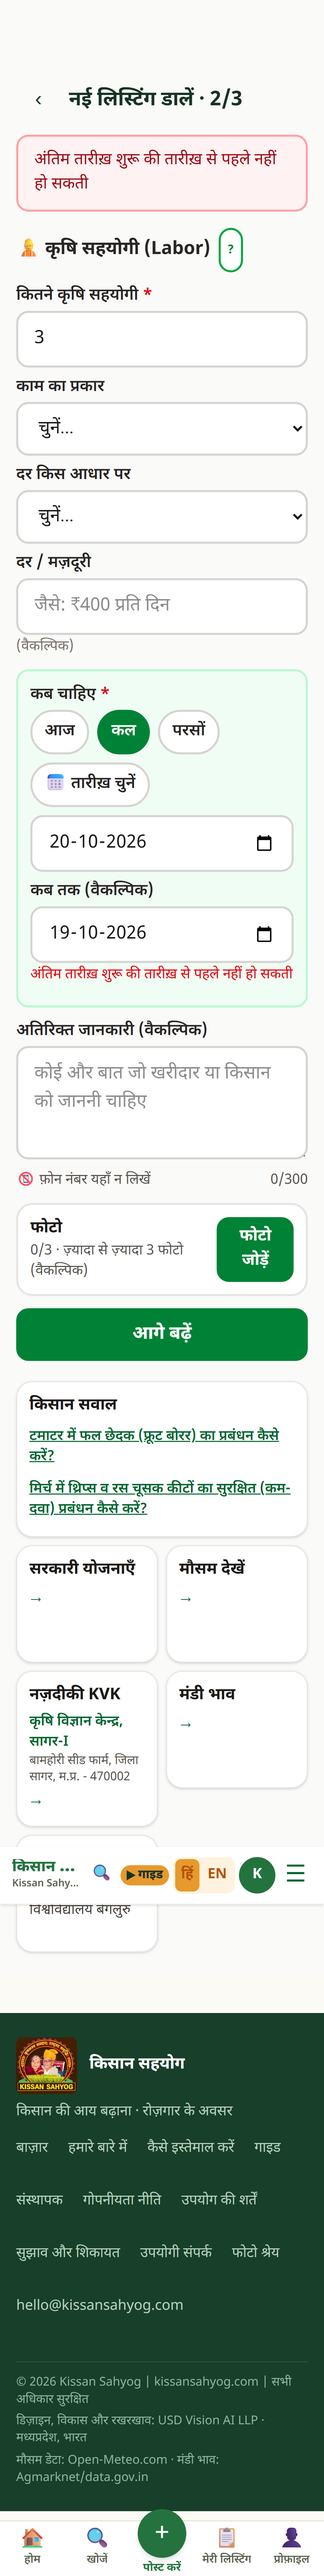
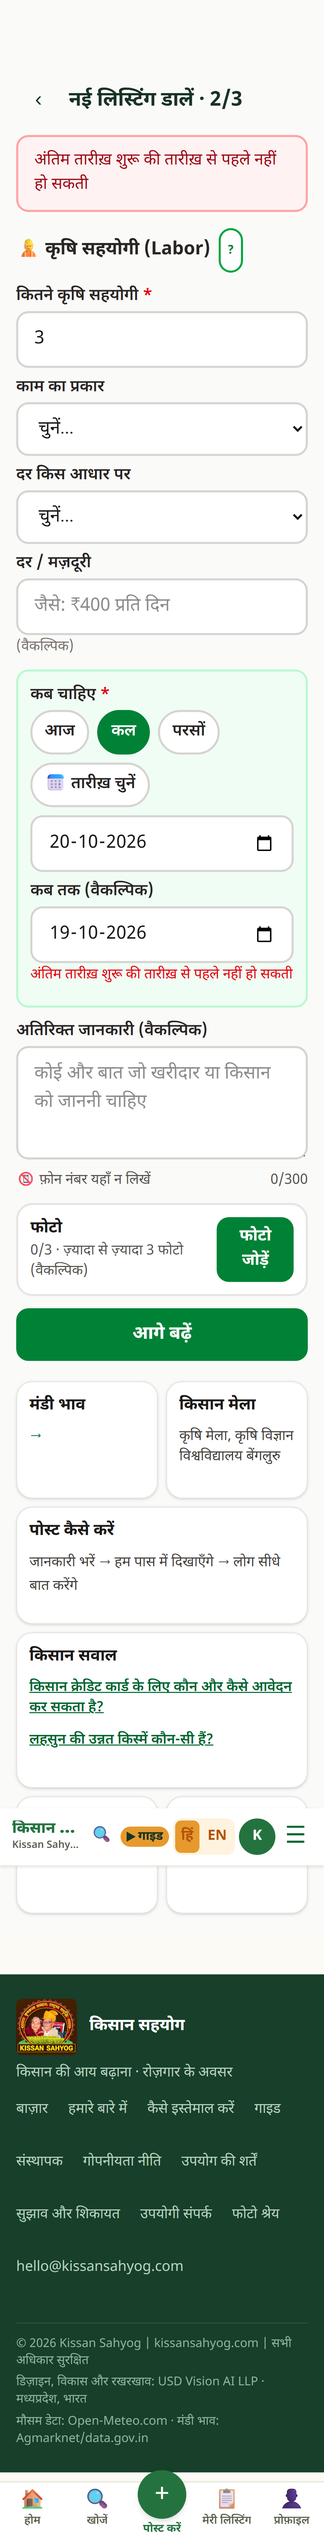
10E phase 6: staging ca08070a re-tested (all green), deployed-host test tolerance, REPORT.md, SHIP.md filled

diff --git a/e2e/guide-10c.spec.js b/e2e/guide-10c.spec.js
@@ -36,7 +36,9 @@ async function open(browser, { lang = 'hi', width = 360, height = 740, speed = S
   const page = await ctx.newPage()
   const errors = []
   page.on('pageerror', (e) => errors.push(`pageerror: ${e.message}`))
-  page.on('console', (m) => { if (m.type() === 'error') errors.push(`console: ${m.text()}`) })
+  // Deployed hosts only (staging/prod): the Cloudflare Web Analytics beacon is injected and refused by the
+  // site CSP (pre-existing, not guide code). Exactly that line is ignored; every other console error counts.
+  page.on('console', (m) => { if (m.type() === 'error' && !/cloudflareinsights/.test(m.text())) errors.push(`console: ${m.text()}`) })
   return { ctx, page, errors }
 }
 
@@ -294,7 +296,7 @@ for (const lang of LANGS) {
         await page.getByTestId('guide-sheet-close').click()
         await expect(sheet).toHaveCount(0)
         expect(await vals()).toEqual(['रामू परीक्षण', '9000012345'])
-        expect(new URL(page.url()).pathname).toBe('/signup')
+        expect(new URL(page.url()).pathname.replace(/(.)\/$/, '$1')).toBe('/signup')
         // open, let it finish, close from the finish card
         await page.getByTestId('help-signup').click()
         await expect(sheet.getByTestId('demo-finish')).toBeVisible({ timeout: 30_000 })
@@ -307,11 +309,11 @@ for (const lang of LANGS) {
         await page.goBack()
         await expect(sheet).toHaveCount(0)
         await page.waitForTimeout(300)
-        expect(new URL(page.url()).pathname).toBe('/signup')
+        expect(new URL(page.url()).pathname.replace(/(.)\/$/, '$1')).toBe('/signup')
         expect(await vals()).toEqual(['रामू परीक्षण', '9000012345'])
         // the sheet's history entry is used up: one more Back leaves /signup
         await page.goBack()
-        await expect(page).toHaveURL(/\/about$/)
+        await expect(page).toHaveURL(/\/about\/?$/)
         expect(errors).toEqual([])
         await ctx.close()
       })
@@ -338,7 +340,7 @@ for (const lang of LANGS) {
         await page.goto('/about')
         await page.getByTestId('footer-guide').scrollIntoViewIfNeeded()
         await page.getByTestId('footer-guide').click()
-        await expect(page).toHaveURL(/\/guide$/)
+        await expect(page).toHaveURL(/\/guide\/?$/)
         await expect(page.getByTestId('guide-hub')).toBeVisible()
         // help pills open the sheet with the right demo, page stays
         const sheetFrom = async (path, testid, demo) => {
@@ -351,7 +353,7 @@ for (const lang of LANGS) {
           // closing pops the sheet's own history entry (async): let it land before navigating on
           await expect.poll(() => page.evaluate(() => !history.state?.ksGuideSheet)).toBe(true)
           await page.waitForTimeout(300)
-          expect(new URL(page.url()).pathname).toBe(path.split('?')[0])
+          expect(new URL(page.url()).pathname.replace(/(.)\/$/, '$1')).toBe(path.split('?')[0])
         }
         await sheetFrom('/signup', 'help-signup', 'register')
         await sheetFrom('/login', 'help-login', 'register')

diff --git a/e2e/photos-10e.spec.js b/e2e/photos-10e.spec.js
@@ -70,7 +70,8 @@ async function withCsp(page, csp) {
 
 function watchConsole(page) {
   const csp = []
-  page.on('console', (m) => { if (m.type() === 'error' && /Content Security Policy/i.test(m.text())) csp.push(m.text()) })
+  // The Cloudflare beacon (deployed hosts only) is refused by script-src, unrelated to photos: ignored.
+  page.on('console', (m) => { if (m.type() === 'error' && /Content Security Policy/i.test(m.text()) && !/cloudflareinsights/.test(m.text())) csp.push(m.text()) })
   return csp
 }
 

diff --git a/docs/review/batch10e/REPORT.md b/docs/review/batch10e/REPORT.md
@@ -1,1 +1,66 @@
-# Batch 10E — REPORT
+# Batch 10E — Report: founder feedback fixes + mandi history backfill + backlog
+
+Branch `release-10e` (from `release-10d` head `e81a100` = 10C + 10D; safety tag `pre-10e-ship` → e81a100). **STAGING only. Production was not touched** (no deploy, no production database access).
+Each phase was done by a subagent and checked by the orchestrator (diffs, screenshots, re-running checks). Details: `PROGRESS.md`, `DECISIONS.md` (1–78), `evidence/phase6/VERIFY.md`, `SHIP.md`, `BACKLOG.md`, `HINDI_CAPTIONS.md`.
+
+## The 9 founder items
+
+| # | Item | Status | Key fact |
+|---|---|---|---|
+| 1 | No email at sign-up / sign-in | DONE-ON-STAGING | Sign-up is name + mobile (+ village, visibility box, notice). It uses the founder's staging function `app_register_phone`, now committed as migration `0064` (+ rollback); the file matches staging byte for byte. Mobile login never asks for email; email accounts still log in through the email box. New line on login: "ईमेल नहीं है? मोबाइल नंबर से लॉगिन करें". |
+| 2 | Listing photos not displaying | DONE-ON-STAGING | **Cause: the site security policy (`public/_headers` CSP `img-src`) did not list the Supabase storage host**, so browsers blocked every stored photo (on production too). Fixed by adding the two exact project hosts to `img-src` only. Test proves the old header blocks the image and the new one shows it. |
+| 3 | Optional "अतिरिक्त जानकारी" box | DONE-ON-STAGING | All categories, 300 chars, live counter, phone numbers blocked, shown on the listing page as plain text. Stored in `details.extra_info` (proved on staging that the create RPC keeps it; no migration). |
+| 4 | "सीताराम 🙏" instead of "शाबाश" | DONE-ON-STAGING | The only "शाबाश" was the demo finish line; now "सीताराम 🙏 …" / "Sitaram 🙏 …". There was no per-step praise to change. |
+| 5 | /msp 30 vs 90 days identical | DONE-ON-STAGING | **Source: data.gov.in "Variety-wise Daily Market Prices Data of Commodity" (Agmarknet/DMI), resource 35985678-…, Government Open Data License – India (attribution required).** Loaded on staging: **2026-06-20 → 2026-10-17**, Sagar division, 10 crops, 8,556 real rows (one real row per crop/market/day; nothing averaged, nothing rejected). Production: 18 SQL files (8,625 rows) for the founder. Also fixed: the chart read only the oldest 1,000 rows (server limit) and the market search saw only 7 of 57 markets. Thin crops: Paddy (34 of 90 days), Maize (48), Garlic (65; 5 markets). No crop has identical 30/90-day series now. |
+| 6 | Dates on the 7/30/90 tabs | DONE-ON-STAGING | e.g. "7 दिन / 11–17 अक्टू", "90 दिन / 20 जुल – 17 अक्टू"; dates at the chart ends and in the trend sentence; honest "इस अवधि में N दिन का भाव उपलब्ध" when days are missing. |
+| 7 | Hand cursor on category tiles | DONE-ON-STAGING | One global pointer-cursor rule; the 15 tiles are now real links. |
+| 8 | Tiles highlight / glow on hover | DONE-ON-STAGING | Saffron ring + green glow + 2 px lift (mouse only), same glow for keyboard focus, press state on touch, no lift with reduced motion. No layout shift. |
+| 9 | Demo: photos + availability; mandatory dates | DONE-ON-STAGING | Post demo now 16 steps: real date block (आज/कल/परसों/तारीख़ चुनें, "कब से उपलब्ध *", "जब तक चाहें") and a photo step (drawn sample picture, nothing uploaded). **Dates now required for Equipment (incl. water tanker), Land, Labor and Drone Didi**, offer and requirement. Browser-side only; server-side enforcement is in BACKLOG. Transport/greenhouse/cold storage left for review. |
+
+## Backlog tasks (Phase 5)
+| Task | Status | Key fact |
+|---|---|---|
+| 5.1 Kisan Mela filter | RAN-PASSED | Homepage shows only MP + UP, MH, CG, GJ, RJ fairs, MP first; section hidden when none. Karnataka fairs gone from the homepage (the /post side widget still shows them: BACKLOG). |
+| 5.2 Test health | RAN-PASSED | Of the 23 old failing tests: 22 stale (fixed, tests only), 0 real bugs, 1 environment (phase19 "price-missing": staging has prices for every crop). `evidence/failing-triage.md`. |
+| 5.3 10D leftovers | RAN-PASSED (1024 tiles) / HUMAN-REVIEW (1440) | Badge check updated; 1024 px tiles wrap 2+1 instead of 4–5-line wraps. The 1440 hero stays 1200 px because every section below it is 1200 px. |
+| 5.4 BACKLOG.md | DONE | All requested items with why and size; photo compression already exists (`compressPhoto`, ≤1600 px, ≤300 KB); Android app not affected by the photo CSP. |
+| B17 build bug (Phase 1D) | DONE-ON-STAGING | The prerender leaked `localhost:4178` into every page (preload links, stylesheets, WhatsApp share links). Fixed at the source; new gate `scripts/check-no-localhost-dist.mjs` runs in `build:full` and `build:prod`. Side effect: the 10C guide tests now pass 30/30 on prerendered builds (23 failed before). |
+
+## Numbers (Phase 6, `evidence/phase6/VERIFY.md`)
+- **Main chunk:** 27,569 B gzip vs 27,565 B at Phase 0 (+4 B; budget +1,500 B). Main CSS +422 B. Everything else added is lazy-loaded.
+- **Homepage speed** (slow phone, measured side by side with the frozen Phase 0 build in one session, 5 runs each): **LCP 2,888 ms vs 2,872 ms (+16 ms; budget +300)**, **CLS 0.0118 vs 0.0118**, TBT 188 vs 202 ms. Auto-play: no long task. No new render-blocking asset.
+- **Tests:** unit 66/66. E2E, all 29 files one at a time on a local preview of the staging build: 177/178. The only failure is phase19 "price-missing" (environment). One flaky PWA test was a test bug, fixed in the test. **No new failures; 45 of the 46 tests failing in 10D now pass.**
+- **Widths:** 7 pages × 320–1440 × hi/en: no horizontal scroll.
+- **SEO text diff:** 268 routes compared, **nothing lost**. Intended changes only: `/guide` (register card text), `/guide/register` (no email step, new description), `/guide/post` (two new steps), `/msp` + 10 crop pages (dated tabs and real history), homepage mela teaser (regional). Every other difference was a page captured while still loading and was re-checked live (decision 5).
+
+## Staging
+- Upload **RAN-PASSED**: deployment **`ca08070a-406f-4061-b56e-518c3512b180`**, https://staging.kissansahyog.com. No `localhost` in the live HTML; the CSP lists both photo hosts.
+- On staging: photos 3/3, phone sign-up 6/6, post form 5/5, /msp trend 4/4, homepage hero 32/32, guide 34/34 (two test-only tolerance fixes for deployed hosts, decision 78).
+
+## Known and accepted
+- Phone-only sign-up and login are trust-based until OTP is live (anyone who knows the number can sign in), as mobile login already was. Throttling unchanged.
+- Phone-only users have no email or password, so they cannot reset or recover their account until OTP is live.
+- Dates are enforced in the browser only.
+
+## HUMAN-REVIEW (decide or check)
+1. All new Hindi wording (`HINDI_CAPTIONS.md`): login line, extra-info box, date block, /msp tab and trend wording, demo steps, register card text, month abbreviations ("फ़र", "अप्रै").
+2. **GODL attribution wording on /msp** (licence requires naming the source; proposed text in `evidence/backfill-source.md`).
+3. Wheat 90-day chart shows a one-day spike on 15 Aug (only 2 mandis reported). Real data, not smoothed; a "minimum mandis per day" rule is in BACKLOG.
+4. /msp trend now uses Sagar division rows only (decision 24); the market picker lists markets seen in the last 120 days (decision 29).
+5. A few old Gram rows may be Arhar (refresh bug, now fixed for the future; one staging row unverifiable; production needs a read-only check). Nothing deleted.
+6. Phone-number rule in the extra-info box blocks e.g. "2023 2024 2025" (errs towards blocking).
+7. Equipment "available now" is now saved as a start date; drone didi `preferred_date` replaced by `available_from` (old rows still display).
+8. The post demo is 16 steps (~68 s on a slow phone); extra-info has no own step; demo uses both "उदाहरण" and "नमूना".
+9. Email box still shown above the mobile box on the login page.
+10. The homepage "submit a Mela" prompt disappears when no regional fair qualifies.
+11. The guard scripts now ignore the two photo hosts on the CSP line of `_headers` only (decision 8); prerendered share links use kissansahyog.com (decision 12).
+12. The machine running this batch was short on memory (a stray `grep` process, PID 21896, ~3 GB, could not be stopped by the AI). Closing it frees memory for full test runs.
+
+## Ship order (founder; full detail in `SHIP.md`)
+1. Look at staging on your phone.
+2. Production SQL editor: apply migration `0064` (sign-up function) — before the ship.
+3. `bash scripts/ship-prod-10e.sh --dry-run` (must end DRY RUN OK; it probes that 0064 exists).
+4. `bash scripts/ship-prod-10e.sh 2>&1 | tee docs/review/batch10e/evidence/ship-real.log` (ships 10C+10D+10E).
+5. Only after SHIP OK: production backfill — `verify.sql`, `part-01.sql` … `part-18.sql`, `verify.sql`.
+6. Undo if needed: `bash scripts/rollback-prod-10e.sh <previous id the script prints>` (today `7f5dc56a-9d1c-4bd2-8bde-a4512a96be20`).
+7. Paste `BATCH10E_CLOSE_PROMPT.md`.

diff --git a/docs/review/batch10e/DECISIONS.md b/docs/review/batch10e/DECISIONS.md
@@ -81,3 +81,6 @@
 73. **5.3 1024 px tiles: one media query.** In `homeLive.css`, only for 1024–1279 px, the hero's info-tile row (HeroInner's first row inside `.khl-more`) wraps 2 + 1 (`flex-wrap: wrap; flex: 1 1 210px`): tiles 158 px → 244 px (weather/price) + full-width advice at 1024; values now wrap to 2 lines instead of 4–5. Below 1024 and ≥ 1280 measured identical before/after (`evidence/phase5/hero-measure-{before,after}.json`); no horizontal scroll at 320/360/412/768/1024/1280/1440 hi+en; the change is CSS present from first paint (no JS), below the fold, so no CLS; `home-10d.spec.js` 32/32. The selector depends on HeroInner's DOM shape (`.khl-more > div > div:first-child`); documented in the CSS comment.
 74. **5.3 1440 px hero width: not changed.** The hero content is 1200 px wide because every homepage section below it (`.ks-section-inner`, `--wide-max: 1200px`) is 1200 px too; the nav, install banner, ticker and open strip are the only full-width bars. Widening only the hero would misalign it with all the content under it, and the bars are outside `homeLive.css`/`heroLive.config.js`. Left for the founder (HUMAN-REVIEW: keep a 1200 px page column, or widen the whole page layout as a separate change).
 75. **Orchestrator fix after Phase 5:** `guide_register_seo_desc` and `guide_register_sub` (the /guide hub card for the register demo) still said "नाम, मोबाइल, ईमेल, पासवर्ड और गाँव" although sign-up no longer asks for email or password (Phase 3A). Both now say "नाम, मोबाइल और गाँव" (en: "name, mobile and village"). Intentional SEO text change on /guide and /guide/register. The "मुफ़्त" (free) claim is kept: registration is free (existing `free_registration` text). HUMAN-REVIEW: wording.
+76. **Production probe in the dry run:** the brief asks the ship script to probe `app_register_phone` on production, and its hard rules forbid the AI from connecting to production Supabase. The script probes in every real run (the founder's); the AI's own dry run uses `KS_SKIP_DB_PROBE=1` and the dry run lists the probe as pending. The snapshot/compare steps fetch only public HTML from kissansahyog.com (no database).
+77. **Ship tag `ship-10e`:** `pre-10e-ship` was already used as the safety tag on the release-10d head (e81a100) and is never moved. The ship point is the new tag `ship-10e` on the final pushed head.
+78. **Staging test noise (test-only fixes):** on deployed hosts the Cloudflare analytics beacon is refused by the CSP (pre-existing) and Pages adds a trailing slash to prerendered routes (`/about` → `/about/`). `e2e/guide-10c.spec.js` and `e2e/photos-10e.spec.js` now ignore exactly the beacon line and accept the trailing slash. Before: 34/34 guide tests failed on staging only for these reasons; after: 34/34 pass on staging and locally.

diff --git a/docs/review/batch10e/SHIP.md b/docs/review/batch10e/SHIP.md
@@ -16,7 +16,7 @@ So you run: brief 1 → 2 → 4 → 5 → 3 → 7. Brief item 6 (undo) is only f
 
 ## Step 1 [brief 1] — staging: upload, then look at it on your phone
 
-STAGING: <filled by orchestrator>
+STAGING: **DONE** — uploaded by the AI run (the permission system allowed it). Deployment **`ca08070a-406f-4061-b56e-518c3512b180`** (built from `aaafc80`, main chunk `/assets/index-BEoquPCU.js`). Open **https://staging.kissansahyog.com** on your phone. Re-tested on staging: photos 3/3, phone sign-up 6/6, post form 5/5, /msp trend 4/4, homepage hero 32/32, guide 34/34 (`evidence/staging-deploy/`).
 
 If the line above says it was NOT uploaded, run this once from the repo folder (Git Bash). It builds with the STAGING settings and uploads to staging only:
 
@@ -254,5 +254,5 @@ A website rollback does not touch the database:
 ## Status
 
 - `bash -n scripts/ship-prod-10e.sh` and `bash -n scripts/rollback-prod-10e.sh`: RAN-PASSED.
-- Dry run: <filled by orchestrator>
+- Dry run: run by the AI on the pushed head with `KS_SKIP_DB_PROBE=1` (the batch rules forbid the AI from contacting the production database, so the read-only 0064 probe was skipped and listed as pending; your real run always probes). Result: see `evidence/ship-dryrun.txt` (not committed, so the `ship-10e` tag stays on the final commit).
 - Real production ship: NOT-RUN (founder runs it).

diff --git a/docs/review/batch10e/PROGRESS.md b/docs/review/batch10e/PROGRESS.md
@@ -60,3 +60,4 @@
   - **Widths: RAN-PASSED.** 98 combinations (7 widths × hi/en × 7 pages), 0 with horizontal scroll.
   - **Screens:** 8 `screens/phase6-*.png`, all looked at.
   - HUMAN-REVIEW: the test timing fix; the `/post` side widget still shows a Bengaluru Mela (5.1 filter is homepage-only); in the teaser the Nov 2026 Meerut Mela sorts after the 2027 MP Melas (MP first).
+- [x] Phase 6 staging: upload RAN-PASSED (deployment ca08070a-406f-4061-b56e-518c3512b180). On staging: photos-10e 3/3, signup-phone-10e 6/6, post-10e 5/5, msp-trend-10e 4/4, home-10d 32/32, guide-10c 34/34 (after decision 78). Ship/rollback scripts + SHIP.md + BATCH10E_CLOSE_PROMPT.md written; dry run on the pushed head with KS_SKIP_DB_PROBE=1.
